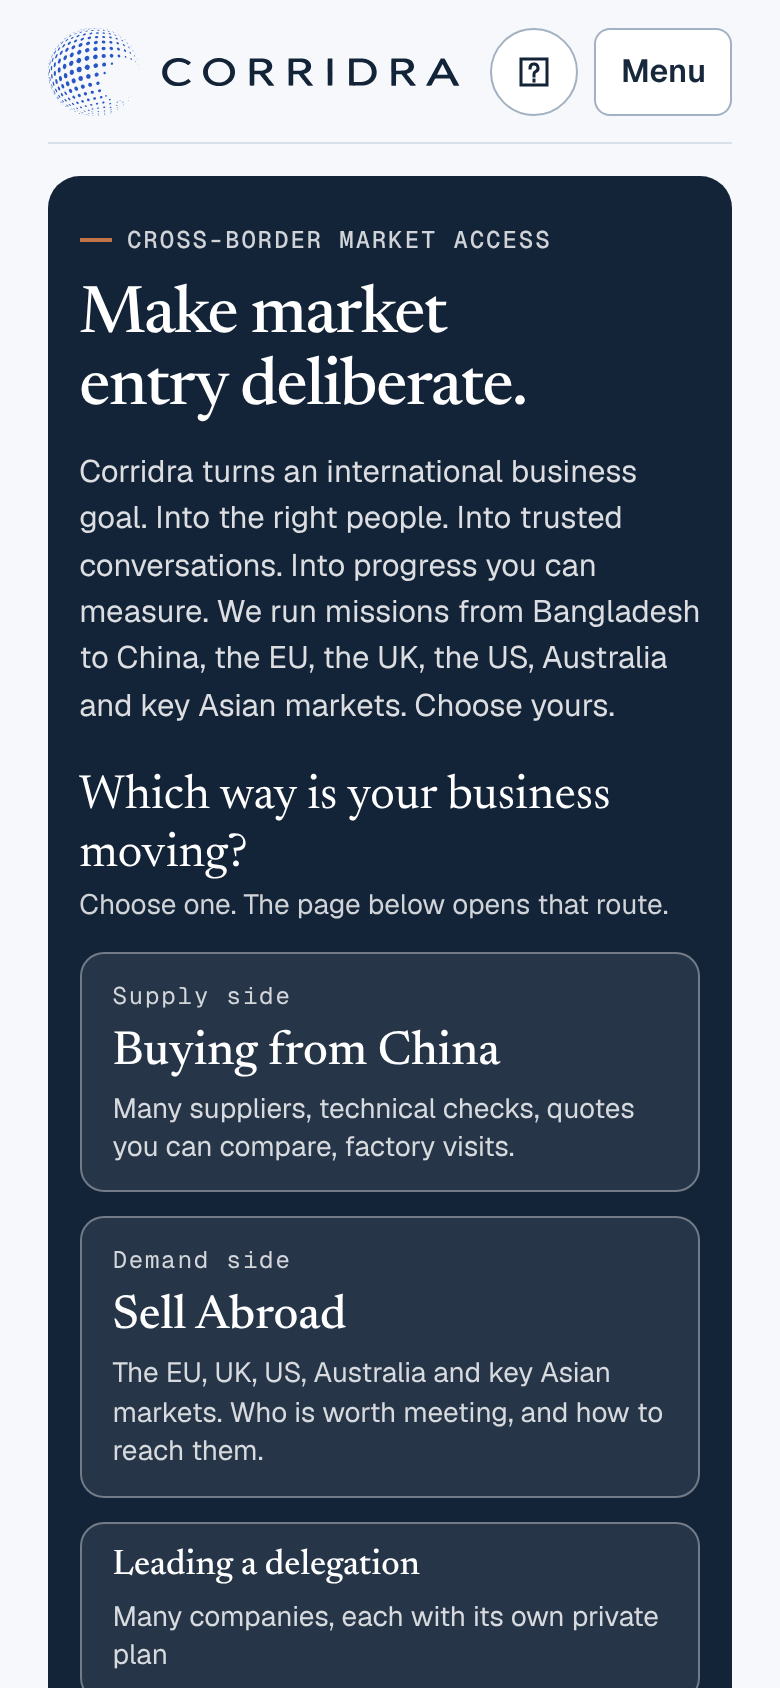
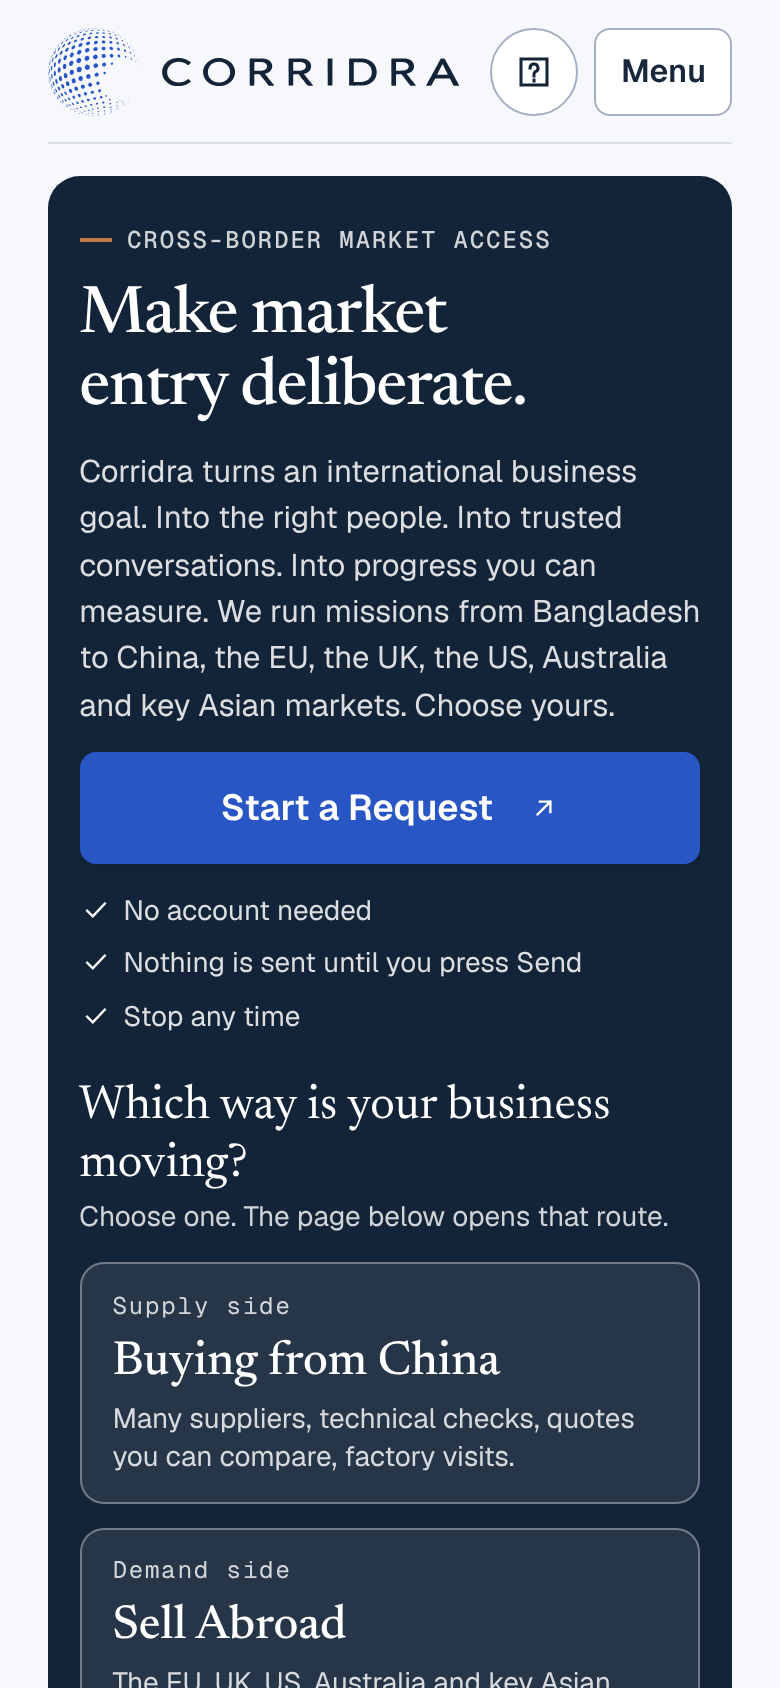
LP1: Start a Request on the first phone screen, record follow-up
Moves the Start a Request link above the doors so it is on the first screen at 320 and 390 px, with tests. Work-log follow-up and refreshed screenshots.

Claude-Session: https://claude.ai/code/session_0187kU9sPjMqXRUrAE8ETwvY

Changed region(s): [[0.0923, 0.4313, 0.9231, 1.0], [0.8615, 0.8626, 0.8923, 0.9242]]

diff --git a/apps/web/components/home-routes.tsx b/apps/web/components/home-routes.tsx
@@ -77,6 +77,29 @@ export function HomeRoutes() {
         <p className="label ac1-rule">{t('home.eyebrow')}</p>
         <h1 id="home-title">{t('home.title')}</h1>
         <p className="tr-lead">{t('home.tr.lead')}</p>
+        <div className="tr-start">
+          <Link prefetch={false} className="primary-link" href={href} id="home-start">
+            {t(ctaWords[shown])} <Arrow />
+          </Link>
+          <ul className="ac1-calm">
+            {(['account', 'send', 'stop'] as const).map((name) => (
+              <li key={name}>
+                <CorridraIcon name="check" size={16} />
+                {t(`home.tr.assure.${name}` as MessageKey)}
+              </li>
+            ))}
+          </ul>
+          <p className="tr-feedback" aria-live="polite">
+            {opened ? (
+              <>
+                {fill(t('home.tr.opened'), { route: t(key(`home.tr.door.${opened}.title`)) })}{' '}
+                <a className="ac1-quiet" href={`#route-${opened}`}>
+                  {t('home.tr.goto')}
+                </a>
+              </>
+            ) : null}
+          </p>
+        </div>
         <fieldset className="tr-doors">
           <legend>{t('home.tr.q')}</legend>
           <p className="tr-doors-sub">{t('home.tr.q.sub')}</p>
@@ -102,29 +125,6 @@ export function HomeRoutes() {
             ))}
           </div>
         </fieldset>
-        <div className="tr-start">
-          <Link prefetch={false} className="primary-link" href={href} id="home-start">
-            {t(ctaWords[shown])} <Arrow />
-          </Link>
-          <ul className="ac1-calm">
-            {(['account', 'send', 'stop'] as const).map((name) => (
-              <li key={name}>
-                <CorridraIcon name="check" size={16} />
-                {t(`home.tr.assure.${name}` as MessageKey)}
-              </li>
-            ))}
-          </ul>
-          <p className="tr-feedback" aria-live="polite">
-            {opened ? (
-              <>
-                {fill(t('home.tr.opened'), { route: t(key(`home.tr.door.${opened}.title`)) })}{' '}
-                <a className="ac1-quiet" href={`#route-${opened}`}>
-                  {t('home.tr.goto')}
-                </a>
-              </>
-            ) : null}
-          </p>
-        </div>
       </section>
 
       <div className="tr-bar">

diff --git a/tests/browser/home-two-routes.spec.ts b/tests/browser/home-two-routes.spec.ts
@@ -36,8 +36,13 @@ test('the first screen says what Corridra is, offers the doors and the first act
     await expect(
       page.getByRole('group', { name: 'Which way is your business moving?' }),
     ).toBeVisible();
-    for (const name of ['Buying from China', 'Sell Abroad'])
-      await expect(door(page, name)).toBeInViewport();
+    // The question that introduces the doors starts on the first screen everywhere; the cards themselves are on it from desktop.
+    await expect(
+      page.getByText('Which way is your business moving?', { exact: true }),
+    ).toBeInViewport();
+    if (size.width === 1440)
+      for (const name of ['Buying from China', 'Sell Abroad'])
+        await expect(door(page, name)).toBeInViewport();
     await expect(start(page)).toHaveAttribute('href', '/plan');
     if (size.width === 1440) await expect(start(page)).toBeInViewport();
   }
@@ -408,4 +413,16 @@ for (const width of widths)
     await choose(page.getByRole('radio', { name: /Show companies outside/ }));
     await page.locator('#faq summary').first().click();
     await check('every route open, examples used');
+  });
+
+// Owner goal: "get a visitor to start a request". The action is on the first screen of a phone, 320 and 390 wide.
+for (const size of [
+  { width: 320, height: 640 },
+  { width: 390, height: 844 },
+])
+  test(`Start a Request is on the first screen at ${size.width} px`, async ({ page }) => {
+    await page.setViewportSize(size);
+    await page.goto('/');
+    await expect(start(page)).toBeInViewport({ ratio: 1 });
+    await expect(start(page)).toHaveAttribute('href', '/plan');
   });

diff --git a/docs/agents/work-log.md b/docs/agents/work-log.md
@@ -4365,7 +4365,10 @@ Measured on the production build, screens (full document over viewport, with foo
 
 Tests: `home-concept-g.spec.ts` renamed `home-two-routes.spec.ts` (21 cases: doors, links, quote check, clocks, market, calculator, tabs, P-07 links, axe, 44 px and no sideways scroll at 320, 390, 768, 1440). Pinned before changes: home-concept-g, v3-objective-entry, ux06-presentation 22/22. Changed assertions (owner-approved by the 17 Nov words): player cases in home-concept-g, comfort-boot (two player motion tests became one hold-still test), public-experience (home example test became a doors test; radios allowed on `/`), public-header-nav Q-02 (trust section), public-large-text and public-normal-text (player layout cases removed, doors case added), stronger-colours (navy regions now the Two Routes ones), ux06 (14 mission steps), language-pages, home-jobs-order, operator ux-home-languages (edited, not run). `comfort.css` gets the white ring and edge for the new navy regions. Runs: browser set of 25 files 449 passed 0 failed (desktop and mobile projects); vitest 14 files 308 passed; design-system and guard 39/39; `pnpm test:ux` full 587 passed with `/` readability, `/` and `/coming-soon` gate failing at first, then fixed (pill controls, action widths, readability) and re-run for those routes: pass; typecheck, lint, prettier clean. Not run: operator suite, verification specs, real device, native language review.
 
-Next action: G22 asks the owner which sections leave the home to meet 3.0 and 4.25, or accepts the measured length.
+Guardian 24 follow-up (same PR): main 2ae78af merged in; Start a Request moved above the doors, so it is on the first screen at 320x640 and 390x844 (new tests); no layout cut, interim ceiling kept, heights unchanged. Runs on the final head: full `pnpm test:ux` 590 passed; browser set of 25 files 451 passed 0 failed; operator `ux-home-languages.spec.ts` 51 passed (run with a copy of the operator config that has no database web server, since that spec builds its own fixture); vitest 12 hit files 259 passed; design-system, guard, context-tools, documents 60/60; typecheck and lint clean. Not run: the rest of the operator suite, verification specs, real device, native language review.
+
+Next action: Guardian 24 asks the owner which sections leave the home to meet 3.0 and 4.25, or accepts the measured length.
+
 ### 17 November 2026: ADR-087 U1 staff body permission split done (Builder U1b, Opus, Class A, PR 551, Guardian 22)
 
 What: `delivery.read_body` and `communications.read_body` (owner, admin, operator, reviewer) in `packages/domain`; `*.read` stays on all five roles as metadata. `DeliveryExperienceService.workspace` returns `responses[].body` null and `DeliveryService.workspace` returns `requests[].response` null without `delivery.read_body`; `answered` is new metadata for every role. The operator delivery, experience and reply review screens show "Not available for your role". No database object, migration, installer action or switch. Accepted deviation: `packages/db` has no permission list, so the registry is `packages/domain` only. `communications.read_body` has no reader yet.
